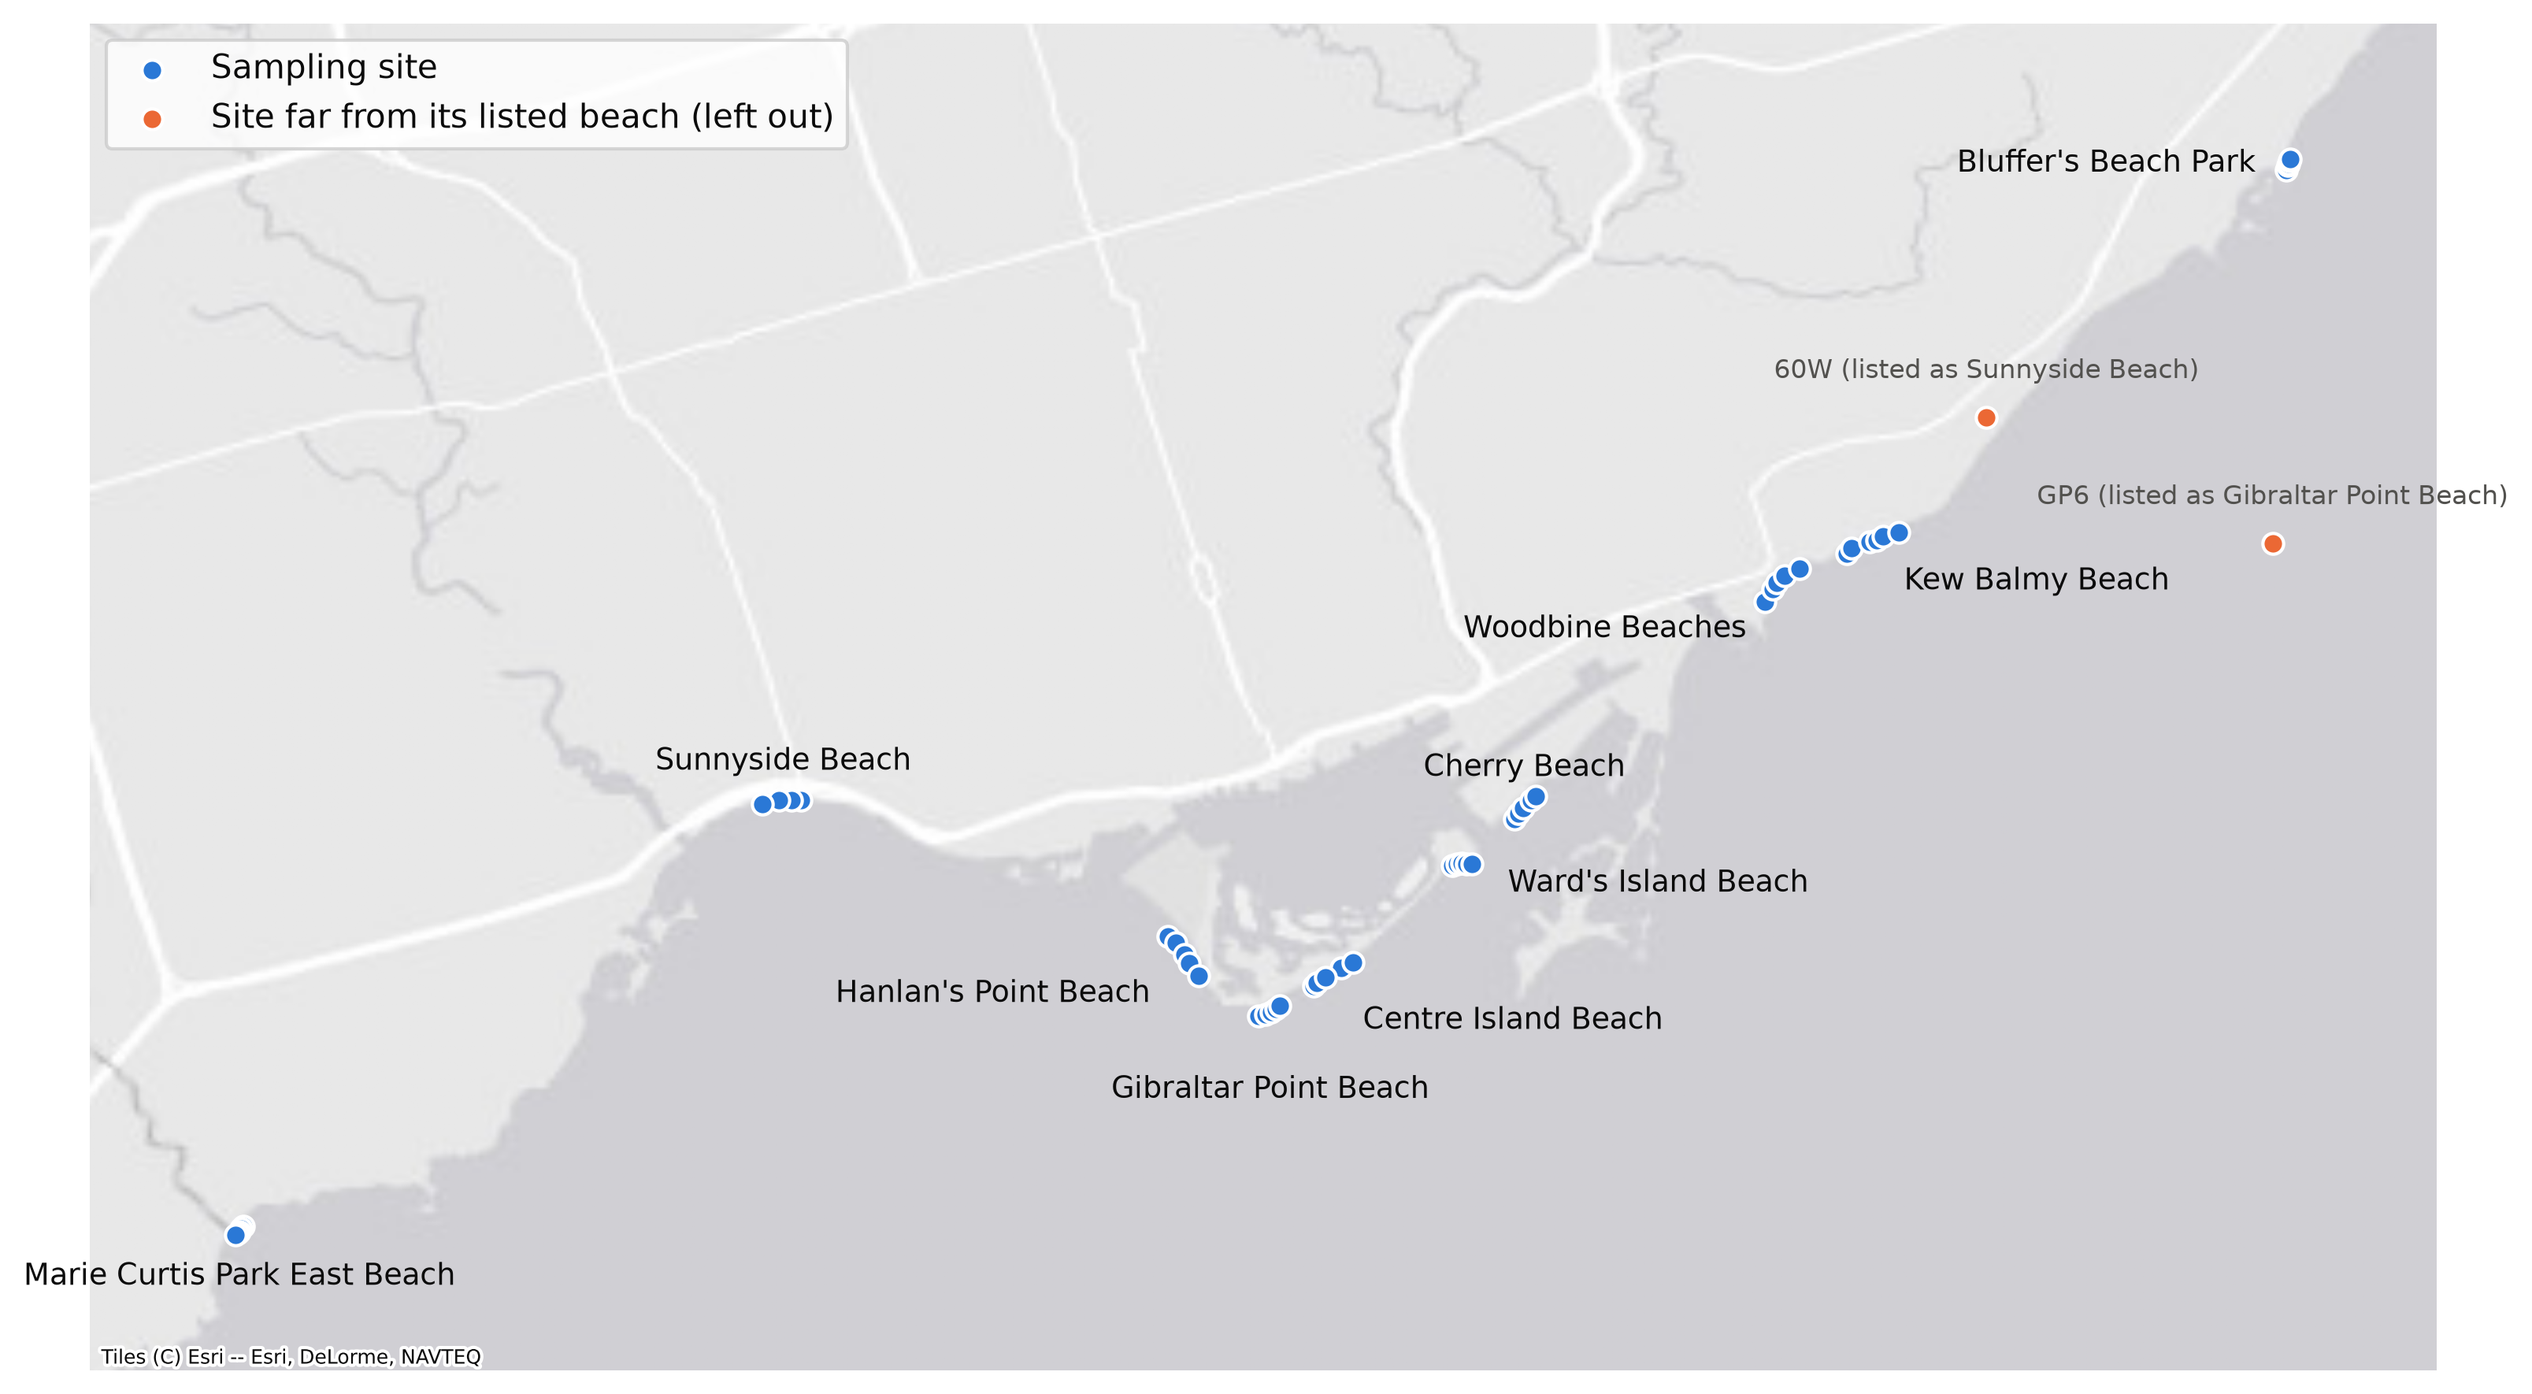
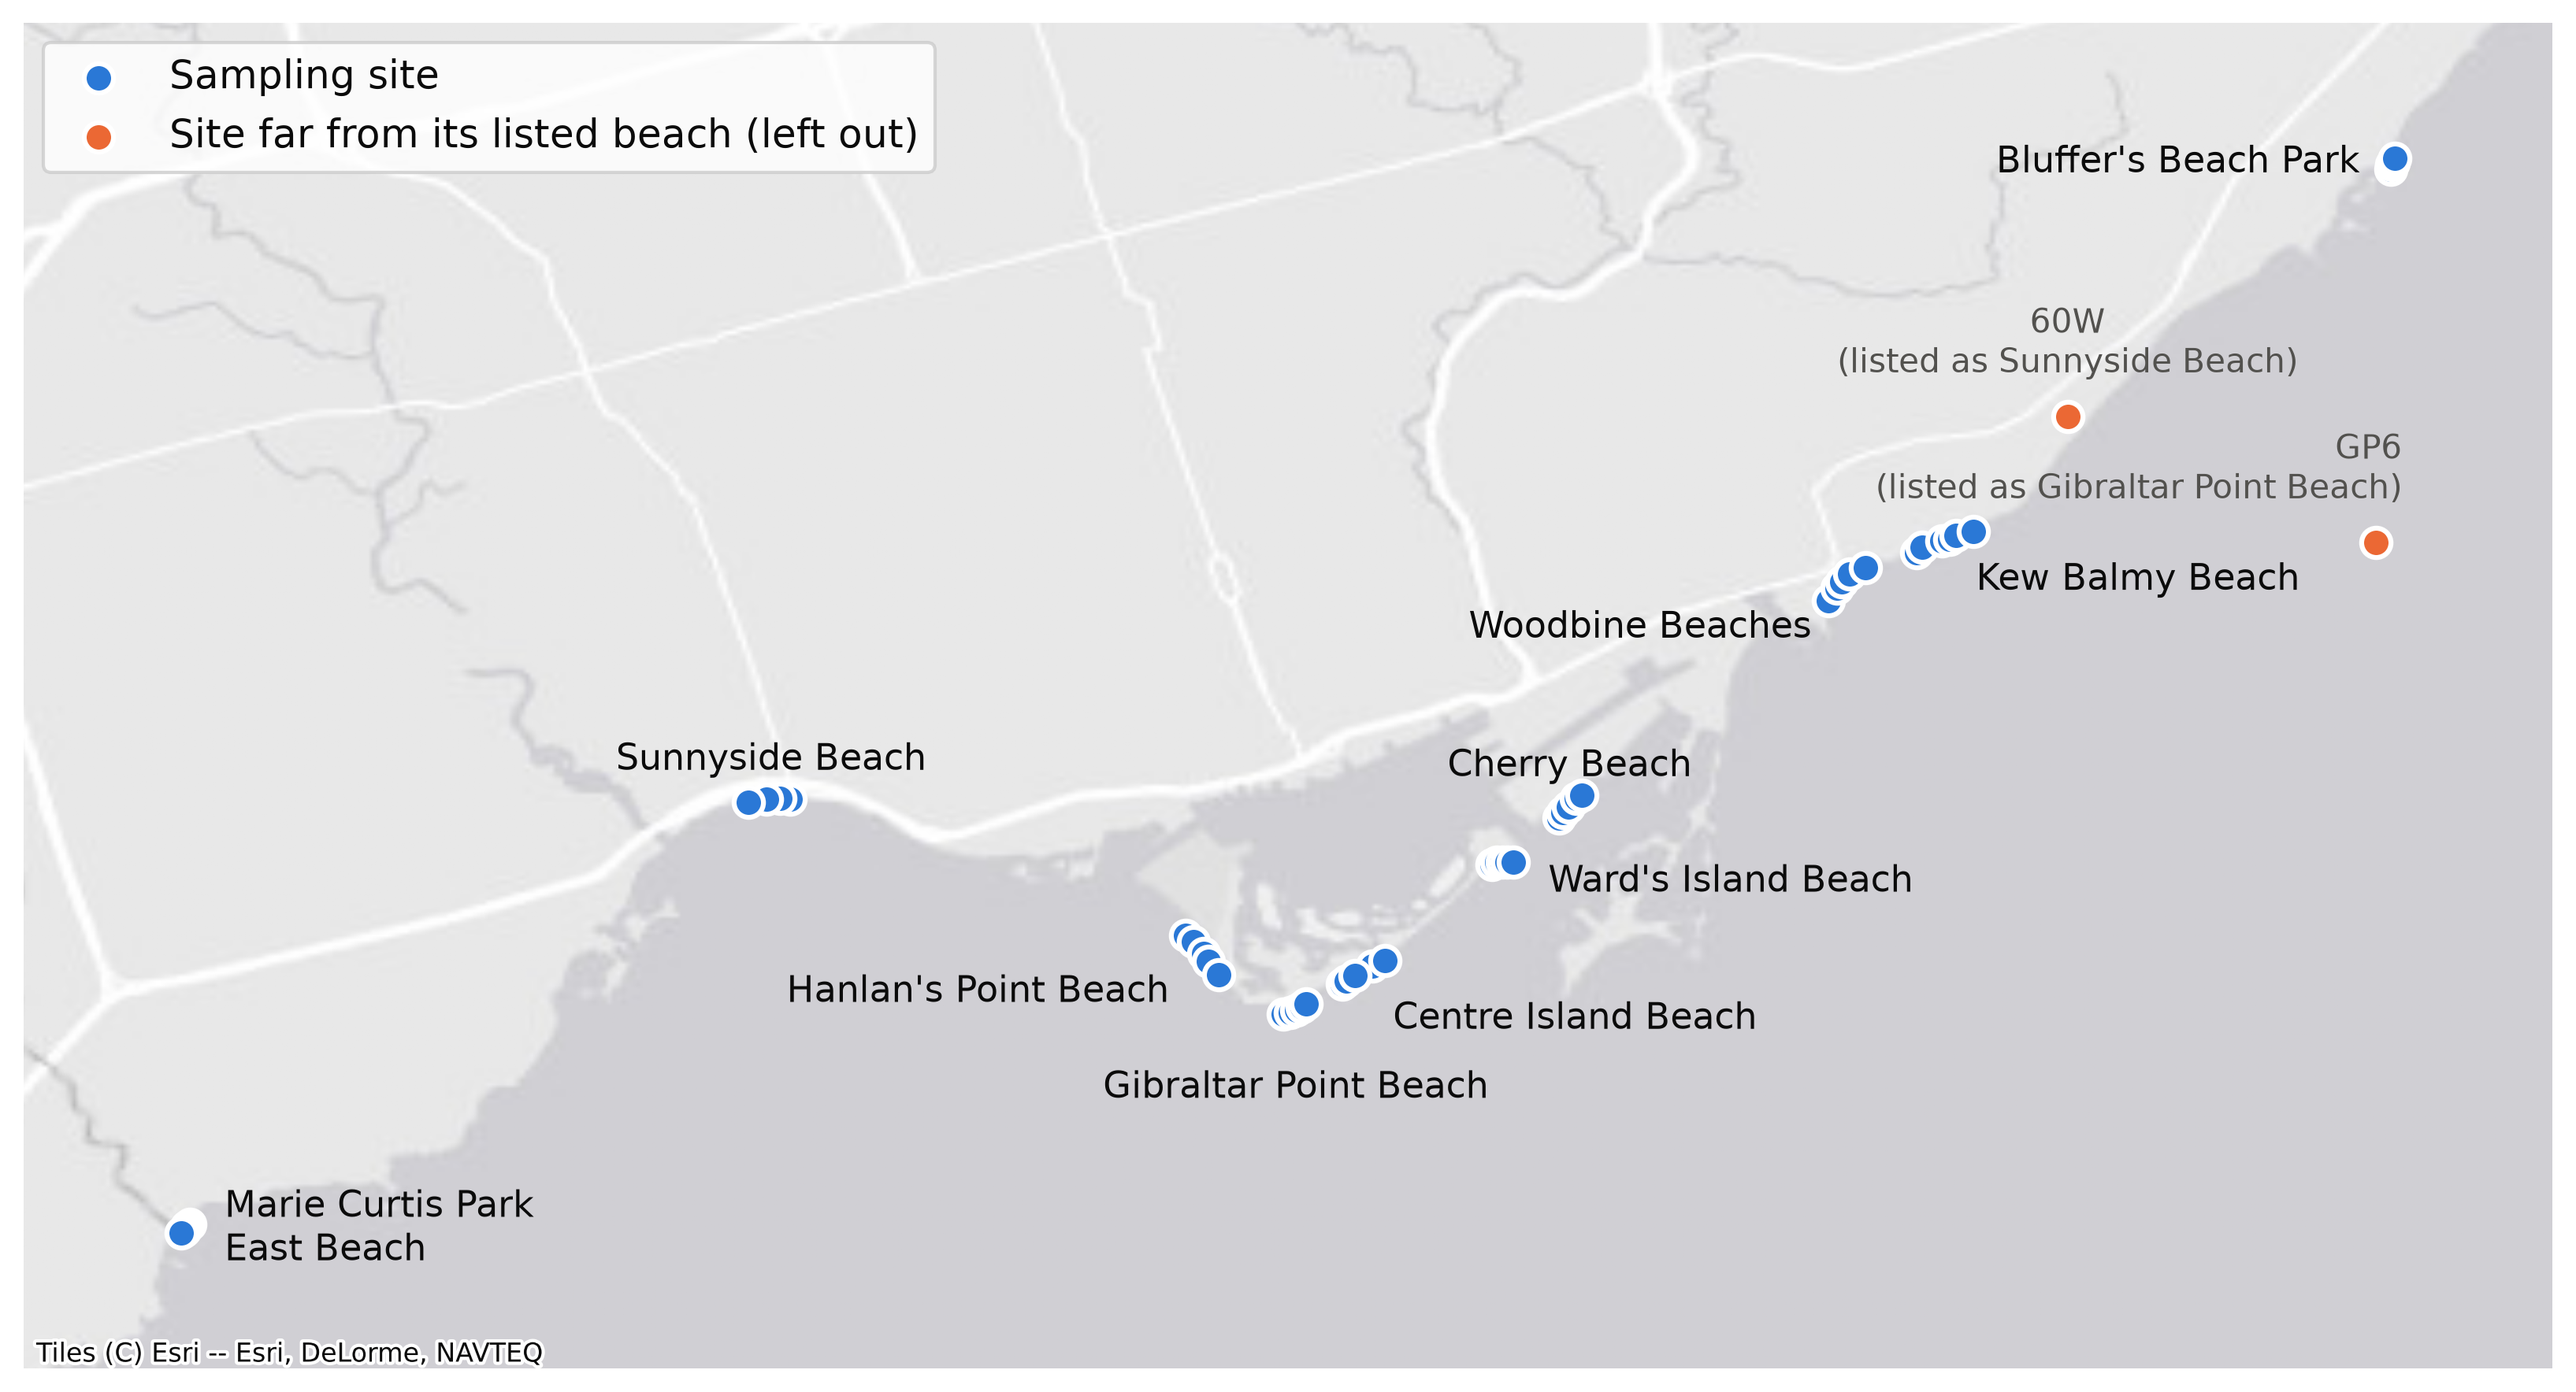
Enlarge sampling-site map dots and labels, keeping all text inside the map

diff --git a/scripts/05-exploratory_data_analysis.py b/scripts/05-exploratory_data_analysis.py
@@ -94,10 +94,12 @@ def to_significant_figures(value: float, digits: int = 2) -> float:
 # The raw data, so the two sites that cleaning leaves out can be shown: both are
 # listed under beaches 14 to 16 km away.
 DROPPED_SITES = ["60W", "GP6"]
+# Offsets in points and horizontal alignment for their labels, set above each dot
+DROPPED_LABEL_PLACES = {"60W": ((0, 10), "center"), "GP6": ((8, 10), "right")}
 
 # Label offsets in points (x, y), chosen by hand so names don't overlap
 LABEL_OFFSETS = {
-    "Marie Curtis Park East Beach": (0, -14),
+    "Marie Curtis Park East Beach": (12, 0),
     "Sunnyside Beach": (0, 12),
     "Hanlan's Point Beach": (-10, -12),
     "Gibraltar Point Beach": (0, -24),
@@ -108,6 +110,8 @@ LABEL_OFFSETS = {
     "Kew Balmy Beach": (10, -12),
     "Bluffer's Beach Park": (-10, 0),
 }
+# Long names split over two lines so they stay inside the map
+LABEL_TEXT = {"Marie Curtis Park East Beach": "Marie Curtis Park\nEast Beach"}
 
 # One row per site, with longitude and latitude taken from the GeoJSON point
 sites = (
@@ -143,20 +147,20 @@ figure, axis = plt.subplots(figsize=(11, 6))
 axis.scatter(
     kept_sites["x"],
     kept_sites["y"],
-    s=40,
+    s=80,
     color=DATA_COLOUR,
     edgecolor="white",
-    linewidth=1,
+    linewidth=1.5,
     zorder=3,
     label="Sampling site",
 )
 axis.scatter(
     dropped_sites["x"],
     dropped_sites["y"],
-    s=40,
+    s=80,
     color=ABOVE_THRESHOLD_COLOUR,
     edgecolor="white",
-    linewidth=1,
+    linewidth=1.5,
     zorder=3,
     label="Site far from its listed beach (left out)",
 )
@@ -164,25 +168,27 @@ axis.scatter(
 for name, x, y in beach_centres.iter_rows():
     dx, dy = LABEL_OFFSETS[name]
     axis.annotate(
-        name,
+        LABEL_TEXT.get(name, name),
         (x, y),
         xytext=(dx, dy),
         textcoords="offset points",
         ha="left" if dx > 0 else "right" if dx < 0 else "center",
         va="center",
-        fontsize=9,
+        fontsize=11,
         color=TEXT_PRIMARY,
     )
 for beach, site, x, y in dropped_sites.select(
     "beachName", "siteName", "x", "y"
 ).iter_rows():
+    offset, align = DROPPED_LABEL_PLACES[site]
     axis.annotate(
-        f"{site} (listed as {beach})",
+        f"{site}\n(listed as {beach})",
         (x, y),
-        xytext=(0, 12),
+        xytext=offset,
         textcoords="offset points",
-        ha="center",
-        fontsize=8,
+        ha=align,
+        va="bottom",
+        fontsize=10,
         color=TEXT_SECONDARY,
     )
 
@@ -193,10 +199,10 @@ cx.add_basemap(
     axis,
     crs="EPSG:3857",
     source=cx.providers.Esri.WorldGrayCanvas,
-    attribution_size=6,
+    attribution_size=8,
 )
 axis.set_axis_off()
-axis.legend(loc="upper left", frameon=True)
+axis.legend(loc="upper left", frameon=True, fontsize=12)
 figure.tight_layout()
 FIGURE_DIR.mkdir(parents=True, exist_ok=True)
 figure.savefig(FIGURE_DIR / "sampling-sites-map.png", dpi=300, bbox_inches="tight")
